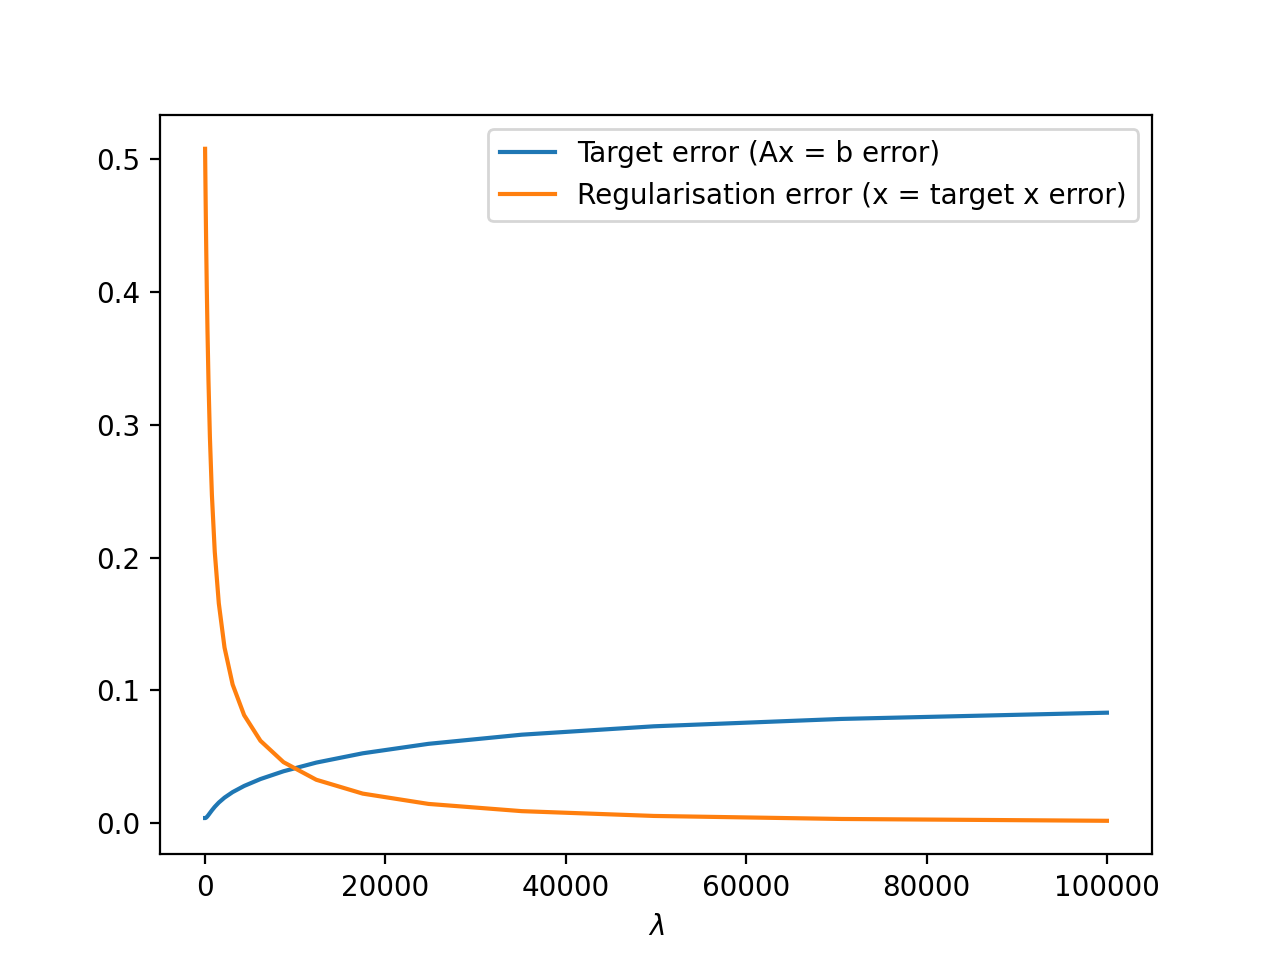
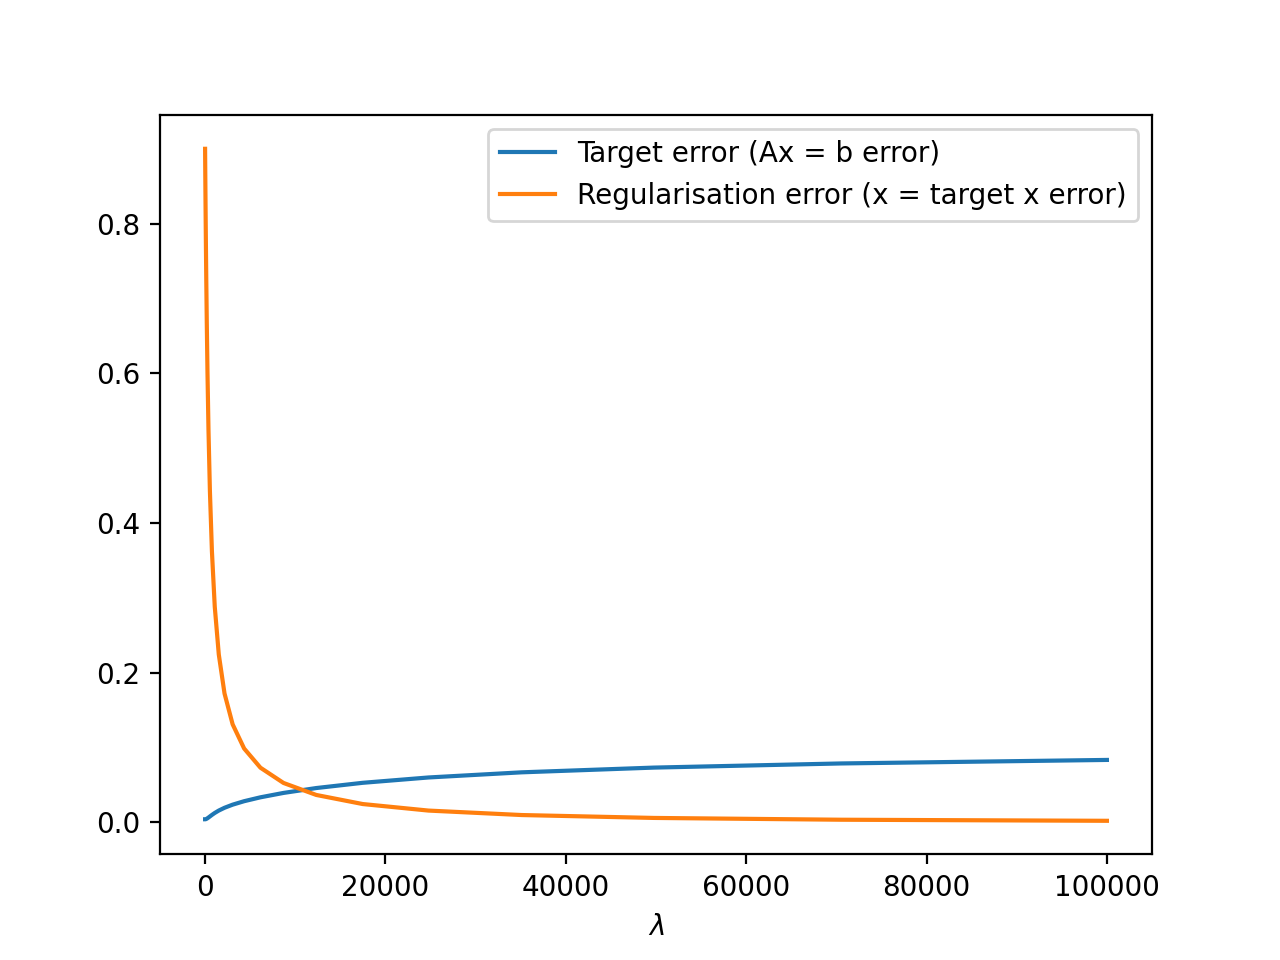
changed normalisation slightly

diff --git a/solution2.py b/solution2.py
@@ -21,10 +21,10 @@ def regularised_ordinary_least_squares(M, c, x_target, l):
 def get_normalised_regularisation_error(x_solution, x_target):
     """
         Return the normalised normalised regularisation error (without weighting)
-            = ||x_solution - x_target||^2 / (||x_solution||^2 * ||x_target||^2)
+            = ||x_solution - x_target||^2 / (||x_target||^2)
     """
     numerator = (x_solution - x_target).T @ (x_solution - x_target)
-    denominator = np.linalg.norm(x_solution) * np.linalg.norm(x_target)
+    denominator = x_target.T @ x_target
     return numerator / denominator
 
 
